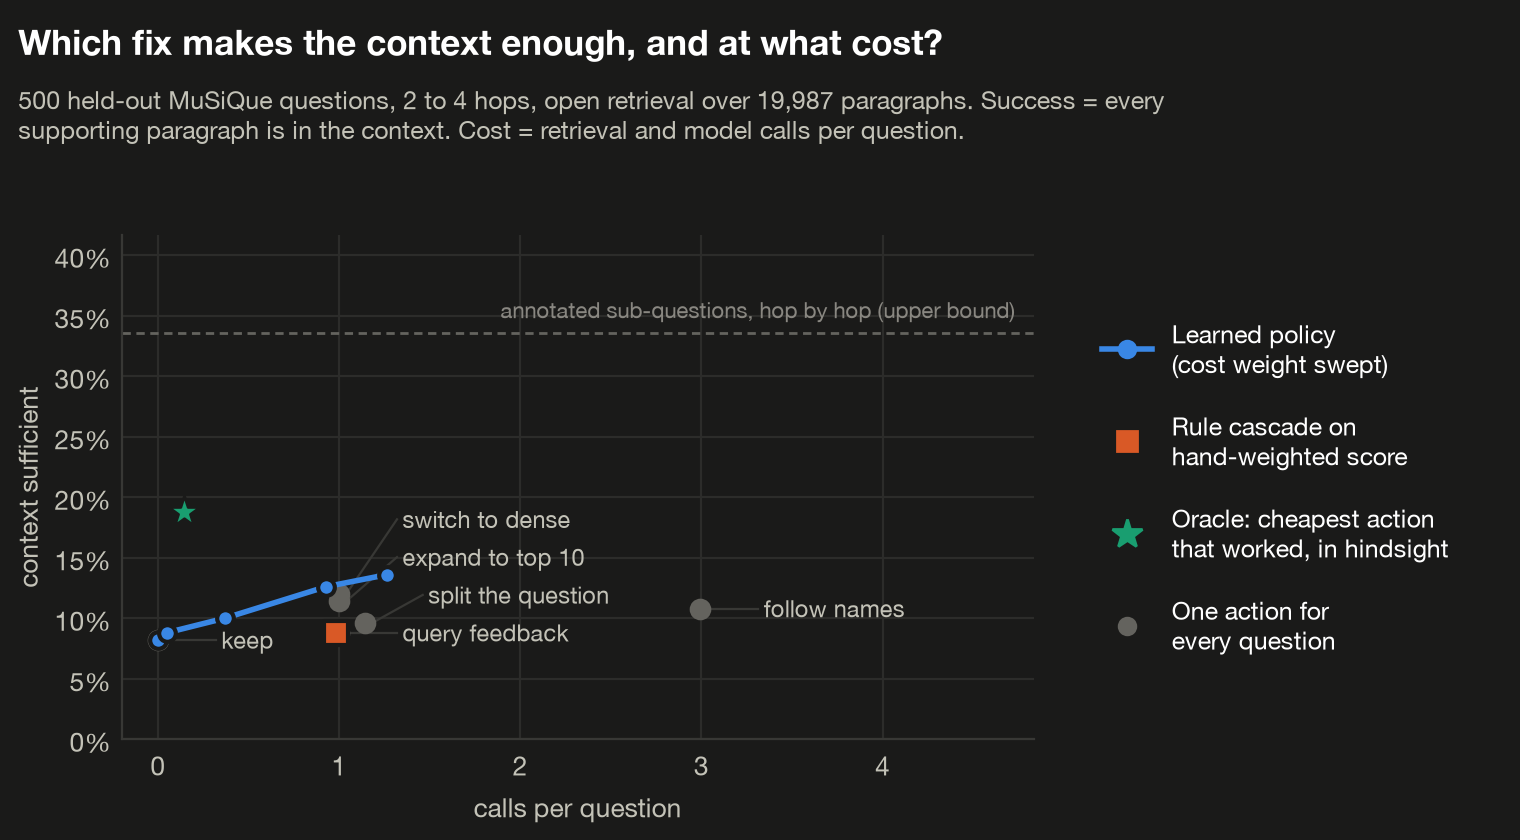
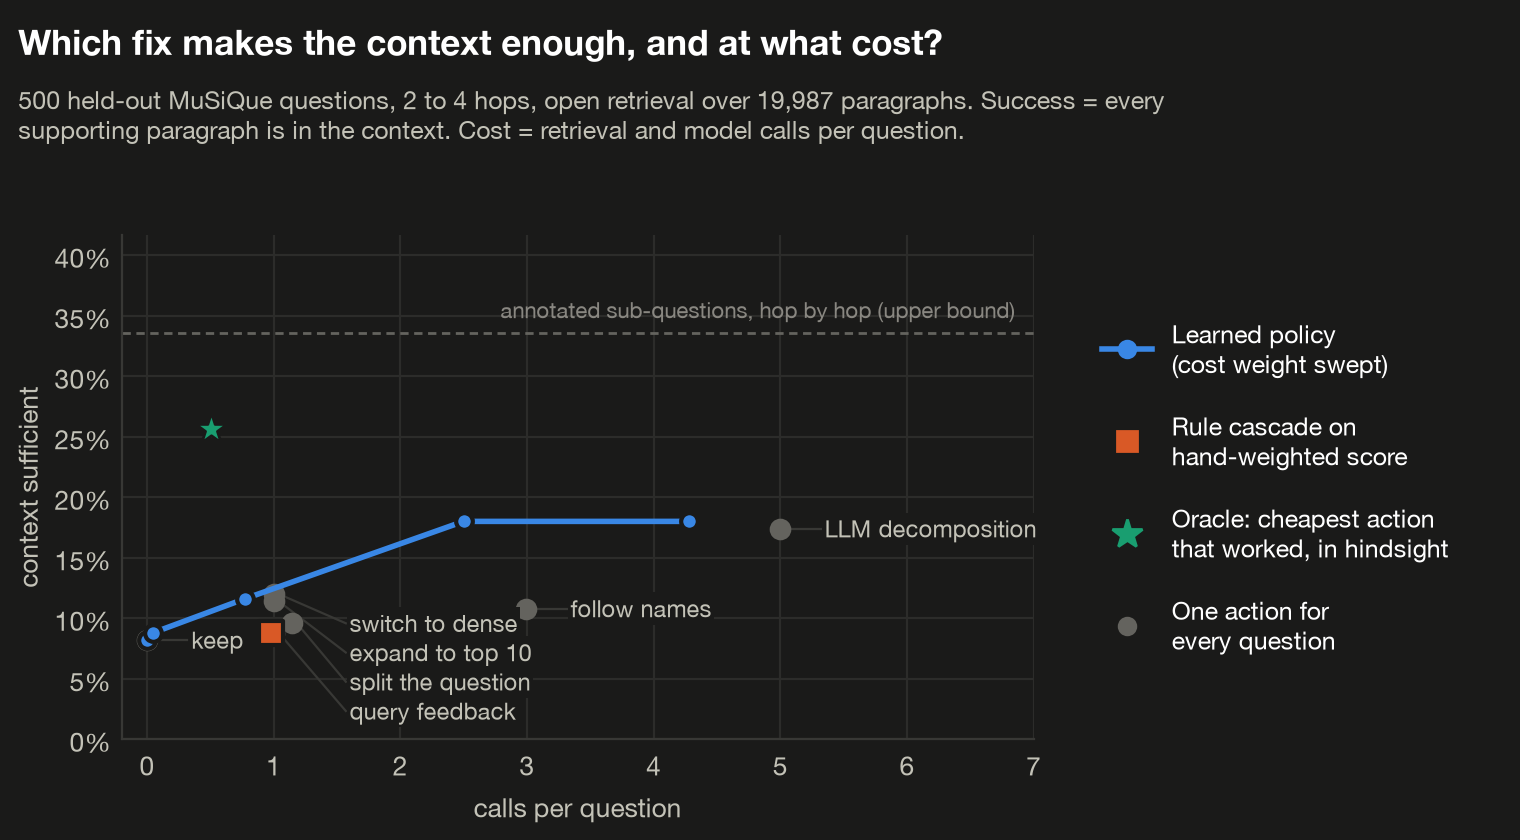
docs: selective answering and recovery results

diff --git a/README.md b/README.md
@@ -141,11 +141,67 @@ questions and tested on 1,000 others.
 
 ### 2. Answer or abstain, with a guarantee
 
-<!-- selective results -->
+Each held-out question is answered from its top 5 passages, by the extractive reader
+(no LLM) or by a local LLM (Qwen2.5-1.5B). A rule answers only when the score clears a
+threshold set on half of the questions, for a promise chosen in advance; the other half
+measures it, and every number is the average over 200 random halvings.
+
+<picture>
+  <source media="(prefers-color-scheme: dark)" srcset="docs/assets/risk-coverage-dark.png">
+  <img alt="Risk-coverage curves: with the estimator, error among answered questions stays low until most questions are answered; rings show the certified thresholds" src="docs/assets/risk-coverage-light.png" width="100%">
+</picture>
+
+| Setting | Always answering: wrong | Target | Sufficiency estimator: error / answered | Hand-weighted blend: error / answered |
+|---|---|---|---|---|
+| SQuAD v2, extractive reader | 54% | 20% error among answered | **14.5% / 39%** | none certified |
+| SQuAD v2, local LLM | 58% | 50% | **44.5% / 76%** | 1.4% / 0.5% |
+| HotpotQA, local LLM | 56% | 50% | **40.8% / 51%** | 4.2% / 2.4% |
+| MuSiQue, local LLM | 77% | 50% | none certified (abstains) | none certified |
+
+1. **Learn then test keeps its promise** in every setting: the achieved error stays
+   under the target, and the rule abstains when it cannot certify one (MuSiQue, where a
+   1.5B model on four-hop questions is wrong 77% of the time).
+2. **Calibration is what makes the guarantee usable.** The hand-weighted score ranks
+   too poorly for any threshold to be certified at a useful coverage.
+3. **Conformal risk control** (at most 10% of all questions answered wrongly, on
+   average) holds too: 9.0% to 10.0% for the estimator in every setting.
+
+Here an answer counts as right when it matches the reference. A stricter definition,
+right only when the context was also sufficient, gives the same picture on SQuAD and
+leaves almost nothing certifiable on the multi-hop sets (3% of HotpotQA); both are in
+[docs/benchmarks.md](docs/benchmarks.md).
+
 
 ### 3. Which fix works, and at what cost?
 
-<!-- recovery results -->
+Open retrieval over a corpus of 20,000 MuSiQue paragraphs (2 to 4 hops). With BM25's
+top 5, every supporting paragraph is present for only 8% of questions. Each fix is run
+on every question; the learned policy is fitted on 500 questions and measured on 500
+others.
+
+<picture>
+  <source media="(prefers-color-scheme: dark)" srcset="docs/assets/recovery-dark.png">
+  <img alt="Scatter of success against calls per question: the learned policy reaches 18% at 2.5 calls, matching LLM decomposition at 5 calls; the rule cascade stays at 9%" src="docs/assets/recovery-light.png" width="100%">
+</picture>
+
+| Policy | Context sufficient | Supporting paragraphs found | Calls per question |
+|---|---|---|---|
+| No fix | 8.2% | 36.8% | 0 |
+| Rule cascade on the hand-weighted score | 8.8% | 37.2% | 1.0 |
+| Best single cheap fix (switch to dense retrieval) | 12.0% | 45.1% | 1.0 |
+| LLM decomposition, hop by hop, for every question | 17.4% | 46.7% | 5.0 |
+| **Learned policy** (cost weight 0.02) | **18.0%** | **47.6%** | **2.5** |
+| Annotated sub-questions, hop by hop (upper bound) | 33.6% | 59.2% | 6.3 |
+
+1. **The learned policy matches the best fix at half its cost.** It decomposes 40% of
+   the questions, switches retriever for 45%, expands 8% and leaves 7% alone.
+2. **The fixed rule cascade barely helps** (8.2% to 8.8%): "rewrite when confidence is
+   middling" spends a call on most questions for almost nothing.
+3. **Decomposition only works hop by hop.** Retrieving for all sub-questions at once
+   leaves the later hops ("Where was #1 born?") without their subject; answering hop 1
+   first and filling it in quadruples the share of complete contexts with annotated
+   sub-questions (8% to 34%). An LLM's own decompositions reach half of that so far.
+
 
 ## How it works
 

diff --git a/CHANGELOG.md b/CHANGELOG.md
@@ -15,7 +15,8 @@ All notable changes to this project are documented here. The format follows
    answered questions at most `alpha` with probability `1 - delta`) and conformal risk
    control (answered-and-wrong rate at most `alpha` in expectation).
 3. Recovery actions over any retriever (expand, pseudo-relevance feedback, LLM rewrite,
-   decomposition, switching retriever) with explicit costs, and `LearnedPolicy`, which
+   hop-by-hop decomposition with `ChatDecomposer`, following names, switching
+   retriever) with explicit costs, and `LearnedPolicy`, which
    learns from logged outcomes which action is likely to make the context sufficient
    and trades that off against cost.
 4. `Controller`: retrieve, estimate, recover if worthwhile, then answer or abstain, with
@@ -26,3 +27,5 @@ All notable changes to this project are documented here. The format follows
 7. Benchmarks on SQuAD v2, MuSiQue and HotpotQA: `bench estimate`, `bench selective`
    and `bench recover`, with `scripts/make_figures.py` for every README figure.
 8. Command line: `sufficiency score`, `sufficiency ask` and `sufficiency bench`.
+9. Shipped estimators for SQuAD v2, MuSiQue and HotpotQA as plain JSON
+   (`SufficiencyEstimator.pretrained`).
